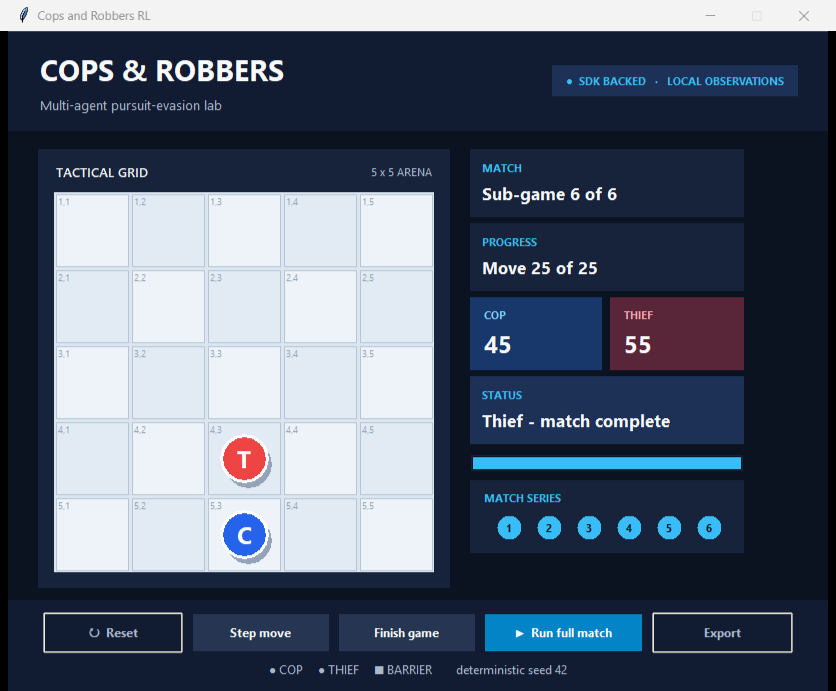
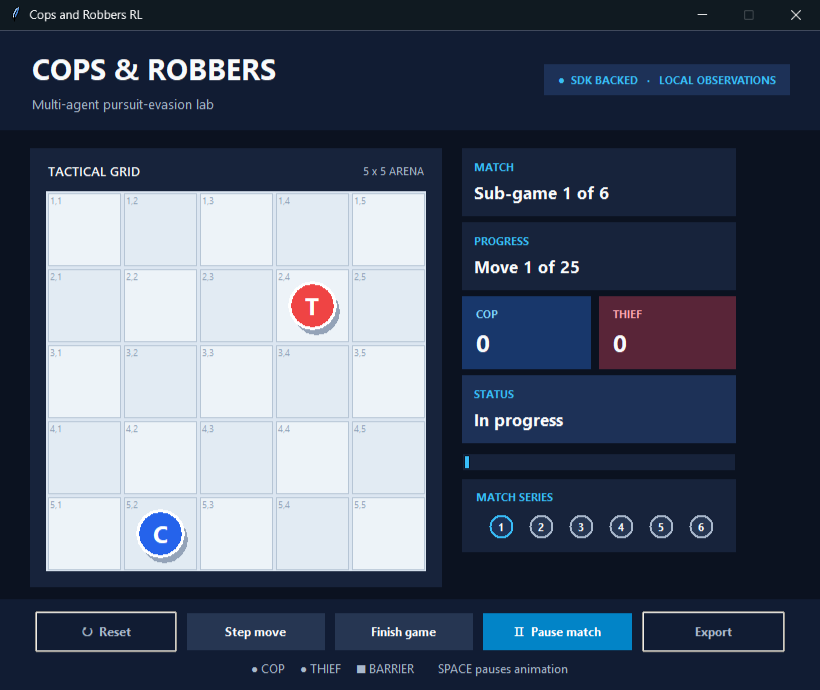
animate Tkinter match playback

diff --git a/src/cops_and_robbers_rl/gui/app.py b/src/cops_and_robbers_rl/gui/app.py
@@ -12,12 +12,13 @@ from cops_and_robbers_rl.sdk import (
 )
 
 CELL_SIZE = 76
+ANIMATION_DELAY_MS = 140
 
 
 class GameWindow:
     """Render immutable SDK snapshots and forward explicit user commands."""
 
-    def __init__(self, root: Tk, session: InteractiveSession) -> None:
+    def __init__(self, root: Tk, session: InteractiveSession, *, autoplay: bool = False) -> None:
         self.root = root
         self.session = session
         self.round_text = StringVar()
@@ -26,12 +27,16 @@ class GameWindow:
         self.thief_score_text = StringVar()
         self.status_text = StringVar()
         self.progress = DoubleVar()
+        self.animating = False
         root.title("Cops and Robbers RL")
         root.geometry("820x660")
         root.resizable(False, False)
         configure_theme(root)
         self._build_layout()
         self.render(session.snapshot)
+        root.bind("<space>", lambda _event: self._toggle_animation())
+        if autoplay:
+            root.after(350, self._run_full_match)
 
     def _build_layout(self) -> None:
         header = ttk.Frame(self.root, style="Header.TFrame", padding=(30, 16))
@@ -91,17 +96,18 @@ class GameWindow:
             ("↻  Reset", self._reset, "Ghost.TButton"),
             ("Step move", self._step, "Secondary.TButton"),
             ("Finish game", self._run_sub_game, "Secondary.TButton"),
-            ("▶  Run full match", self._run_full_match, "Accent.TButton"),
+            ("▶  Animate match", self._toggle_animation, "Accent.TButton"),
             ("Export", self._export, "Ghost.TButton"),
         )
+        self.action_buttons: list[ttk.Button] = []
         for column, (text, command, style) in enumerate(actions):
-            ttk.Button(controls, text=text, command=command, style=style).grid(
-                row=0, column=column, padx=5, sticky="ew"
-            )
+            button = ttk.Button(controls, text=text, command=command, style=style)
+            button.grid(row=0, column=column, padx=5, sticky="ew")
+            self.action_buttons.append(button)
             controls.columnconfigure(column, weight=1)
         ttk.Label(
             controls,
-            text="● COP     ● THIEF     ■ BARRIER        deterministic seed 42",
+            text="● COP     ● THIEF     ■ BARRIER        SPACE pauses animation",
             style="Footer.TLabel",
         ).grid(row=1, column=0, columnspan=5, pady=(7, 0))
 
@@ -237,16 +243,50 @@ class GameWindow:
         self.canvas.create_text((x0 + x1) / 2, (y0 + y1) / 2, text="B", fill="white")
 
     def _reset(self) -> None:
+        self._stop_animation()
         self.render(self.session.reset())
 
     def _step(self) -> None:
+        if self.animating:
+            return
         self.render(self.session.step())
 
     def _run_sub_game(self) -> None:
+        if self.animating:
+            return
         self.render(self.session.run_sub_game())
 
     def _run_full_match(self) -> None:
-        self.render(self.session.run_full_match())
+        self._stop_animation()
+        self.render(self.session.reset())
+        self.animating = True
+        self.action_buttons[3].configure(text="Ⅱ  Pause match")
+        self.root.after(ANIMATION_DELAY_MS, self._animation_tick)
+
+    def _toggle_animation(self) -> None:
+        if self.animating:
+            self._stop_animation()
+            return
+        if self.session.snapshot.full_match_complete:
+            self.render(self.session.reset())
+        self.animating = True
+        self.action_buttons[3].configure(text="Ⅱ  Pause match")
+        self.root.after(ANIMATION_DELAY_MS, self._animation_tick)
+
+    def _stop_animation(self) -> None:
+        self.animating = False
+        if hasattr(self, "action_buttons"):
+            self.action_buttons[3].configure(text="▶  Animate match")
+
+    def _animation_tick(self) -> None:
+        if not self.animating:
+            return
+        snapshot = self.session.advance_match()
+        self.render(snapshot)
+        if snapshot.full_match_complete:
+            self._stop_animation()
+            return
+        self.root.after(ANIMATION_DELAY_MS, self._animation_tick)
 
     def _export(self) -> None:
         DEFAULT_SCREENSHOT_DIR.mkdir(parents=True, exist_ok=True)
@@ -265,8 +305,6 @@ def launch_gui(config_path: str | Path | None = None, *, demo: bool = False) -> 
     """Launch the native GUI with heuristic baseline agents."""
     sdk = CopsAndRobbersSDK.from_config(config_path)
     session = sdk.create_interactive_session()
-    if demo:
-        session.run_full_match()
     root = Tk()
-    GameWindow(root, session)
+    GameWindow(root, session, autoplay=demo)
     root.mainloop()

diff --git a/src/cops_and_robbers_rl/sdk/interactive.py b/src/cops_and_robbers_rl/sdk/interactive.py
@@ -115,6 +115,19 @@ class InteractiveSession:
         self._full_match_complete = True
         return self.snapshot
 
+    def advance_match(self) -> InteractiveSnapshot:
+        """Advance one animation frame, including sub-game transitions."""
+        if self._full_match_complete:
+            return self.snapshot
+        if not self._engine.state.terminal:
+            return self.step()
+        next_sub_game = self._engine.state.sub_game_id + 1
+        if next_sub_game > self.config.num_games:
+            self._full_match_complete = True
+        else:
+            self._engine = self._new_engine(next_sub_game)
+        return self.snapshot
+
     def _new_engine(self, sub_game_id: int) -> GameEngine:
         seed = self.config.random_seed + sub_game_id - 1
         self.cop_agent.reset(seed)

diff --git a/tests/test_interactive_session.py b/tests/test_interactive_session.py
@@ -49,3 +49,16 @@ def test_interactive_full_match_runs_six_games_and_reset_clears_scores() -> None
     assert reset.sub_game_id == 1
     assert reset.match_score.cop == reset.match_score.thief == 0
     assert not reset.full_match_complete
+
+
+def test_interactive_match_can_advance_one_animation_frame_at_a_time() -> None:
+    session = CopsAndRobbersSDK.from_config().create_interactive_session()
+
+    frames = [session.snapshot]
+    while not frames[-1].full_match_complete:
+        frames.append(session.advance_match())
+
+    assert len(frames) > 6
+    assert {frame.sub_game_id for frame in frames} == set(range(1, 7))
+    assert frames[-1].match_score.cop >= 30
+    assert frames[-1].match_score.thief >= 30

diff --git a/src/cops_and_robbers_rl/main.py b/src/cops_and_robbers_rl/main.py
@@ -40,7 +40,7 @@ def build_parser() -> argparse.ArgumentParser:
     gui.add_argument(
         "--demo",
         action="store_true",
-        help="open the GUI on a completed deterministic six-game match",
+        help="open the GUI and animate a deterministic six-game match",
     )
     train = subparsers.add_parser("train", help="train tabular independent Q-learners")
     train.add_argument("--config", default=str(DEFAULT_GAME_CONFIG))

diff --git a/README.md b/README.md
@@ -152,7 +152,7 @@ The SDK will validate ranges and reject unknown or unsafe values before a match 
 
 ## GUI
 
-The Tkinter GUI is a read-only dashboard over SDK snapshots. It uses a themed tactical board, coordinate labels, role-colored score tiles, move progress, a six-game series tracker, compact legend, and a clear primary action while preserving labeled cop (`C`), thief (`T`), and barriers (`B`). Controls reset or advance one move, finish the current sub-game, run all six sub-games, and export the canvas as color PostScript under `results/screenshots/`.
+The Tkinter GUI is a read-only dashboard over SDK snapshots. It uses a themed tactical board, coordinate labels, role-colored score tiles, move progress, a six-game series tracker, compact legend, and a clear primary action while preserving labeled cop (`C`), thief (`T`), and barriers (`B`). **Animate match** plays all six games move-by-move without blocking Tkinter; Space pauses or resumes. Other controls reset, advance one move, finish the current sub-game, and export the canvas as color PostScript under `results/screenshots/`.
 
 The run buttons intentionally complete immediately rather than animate. Learned policies can later be supplied through the same `BaseAgent` interface without changing the renderer. Automated tests cover the display-independent interactive session; opening a native window requires a desktop with Tk 8.6.
 